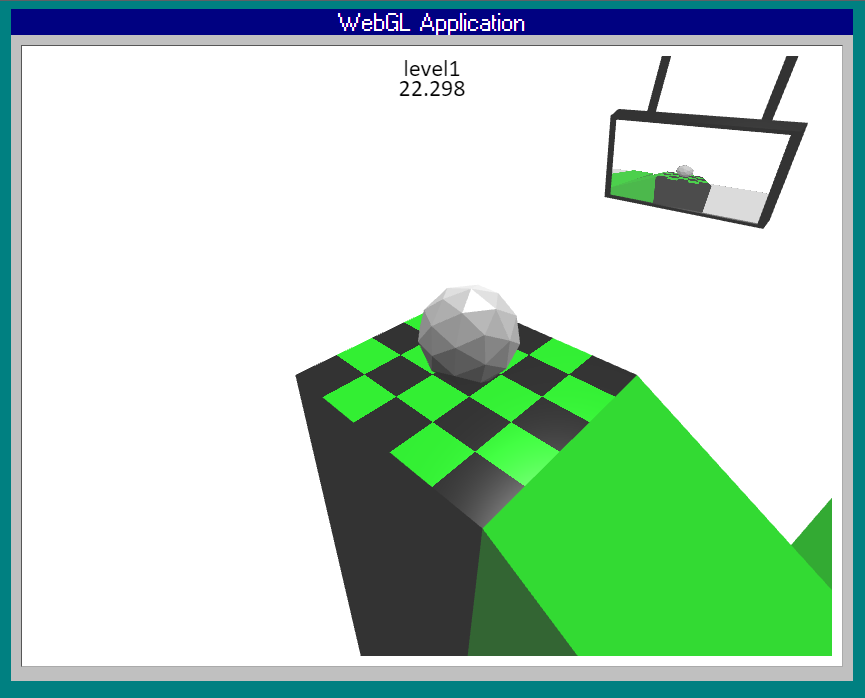
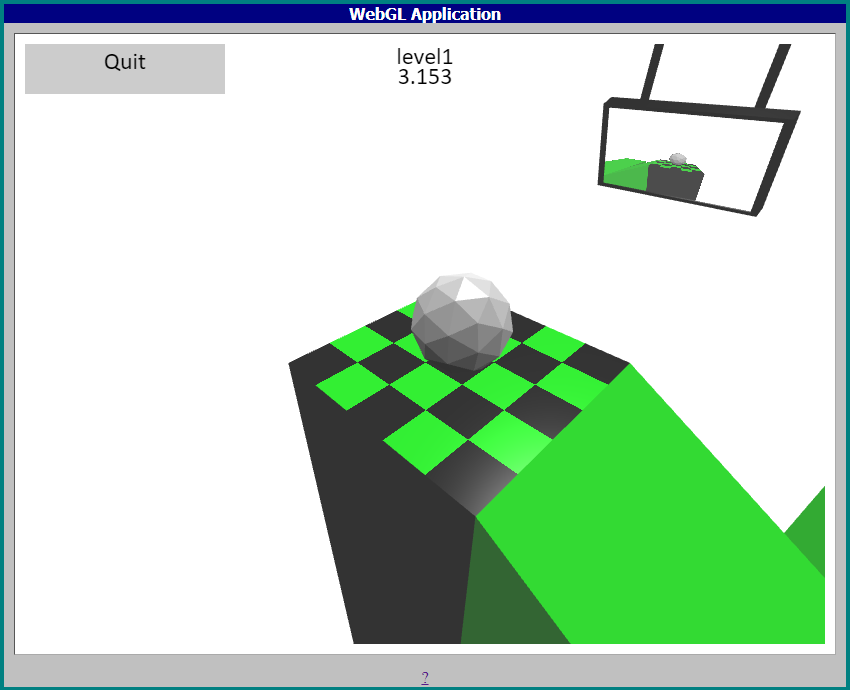
:sparkles: In-game level exit button

diff --git a/project/Engine/Engine.js b/project/Engine/Engine.js
@@ -4,6 +4,7 @@ import {Button} from "./UI/Button.js"
 import {LevelSelectButton} from "./UI/LevelSelectButton.js";
 import {StartButton} from "./UI/StartButton.js";
 import {ScreenButton} from "./UI/ScreenButton.js";
+import {MainMenuButton} from "./UI/MainMenuButton.js";
 /*
 This is the Engine class of the SlingShot Engine. It loads up meshes from a Scene type object, and then computes
 the physics, reads player input and renders the scene.
@@ -111,6 +112,7 @@ export class Engine {
             width: 230,
             height: 50
         }, ui.canvas, ui.ctx, "Screens OFF", "Screens ON")
+        this.btnMain = new MainMenuButton("Quit", {coordinates: {x:100, y:25}, width:200, height:50}, ui.canvas, ui.ctx)
     }
 
     async generate_reflection() {
@@ -203,10 +205,12 @@ export class Engine {
                 this.btn.disable()
                 this.btn1.disable()
                 this.btn2.disable()
+                this.btnMain.enable()
             } else {
                 this.btn.enable()
                 this.btn1.enable()
                 this.btn2.enable()
+                this.btnMain.disable()
             }
         }
         // Update selected level id
@@ -266,11 +270,13 @@ export class Engine {
         }
         if (this.scene_curr.name !== "menu") {
             // UI control for level mode
+
             this.screen_enabled = localStorage.getItem("mirrors") === "true"
             if (this.advance_timer) {
                 this.curr_time = time - offset;
             }
             ui.clear()
+            this.btnMain.draw();
             ui.draw('18pt Calibri', "black", {x: this.gl.canvas.width / 2, y: 20}, this.scene_curr.name)
             ui.draw('18pt Calibri', "black", {x: this.gl.canvas.width / 2, y: 40}, ((this.curr_time) / 1000).toFixed(3))
             if (!this.advance_timer) {

diff --git a/doc/index.html b/doc/index.html
@@ -117,7 +117,8 @@
                     in cui il tempo attuale sia migliore del record, verrà memorizzato all'interno del localstorage del
                     browser e mostrato nel menu principale. Nel caso in cui la pallina dovesse cadere, una volta
                     superato
-                    un "deathplane" verrà ripristinata alla linea di partenza.
+                    un "deathplane" verrà ripristinata alla linea di partenza. Per uscire dal livello, premere "esc"
+                    sulla tastiera oppure il bottone sull'interfaccia utente (o, in alternativa, ricaricare la pagina).
                 </p>
             </div>
 
@@ -242,6 +243,9 @@
                     </li>
                     <li>
                         Antialiasing, per la riduzione dell'effetto "seghettatura" dei modelli.
+                    </li>
+                    <li>
+                        Gl.DepthTest, abilita il depth buffer.
                     </li>
                 </ul>
             </div>

diff --git a/project/Engine/UI/MainMenuButton.js b/project/Engine/UI/MainMenuButton.js
@@ -1,0 +1,16 @@
+import {Button} from "./Button.js";
+
+export class MainMenuButton extends Button{
+    constructor(text, geometry, canvas, ctx) {
+        super(text, geometry, canvas, ctx);
+    }
+
+
+    handle = e =>{
+        if(super.collision(super.normalize(e))){
+            setTimeout(function () {
+                window.location.reload();
+            }, 1)
+        }
+    }
+}
